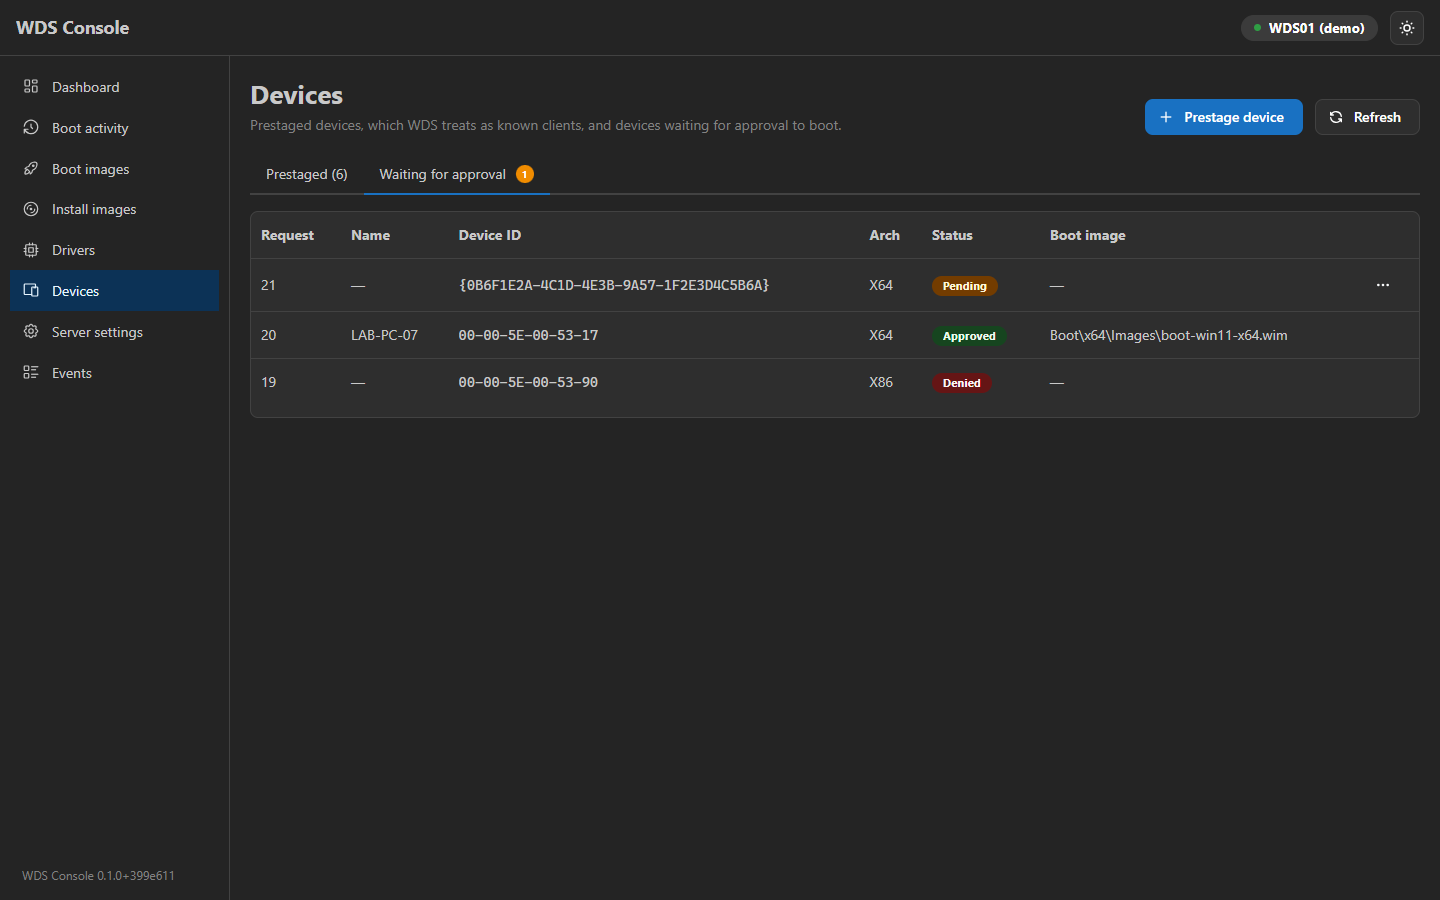
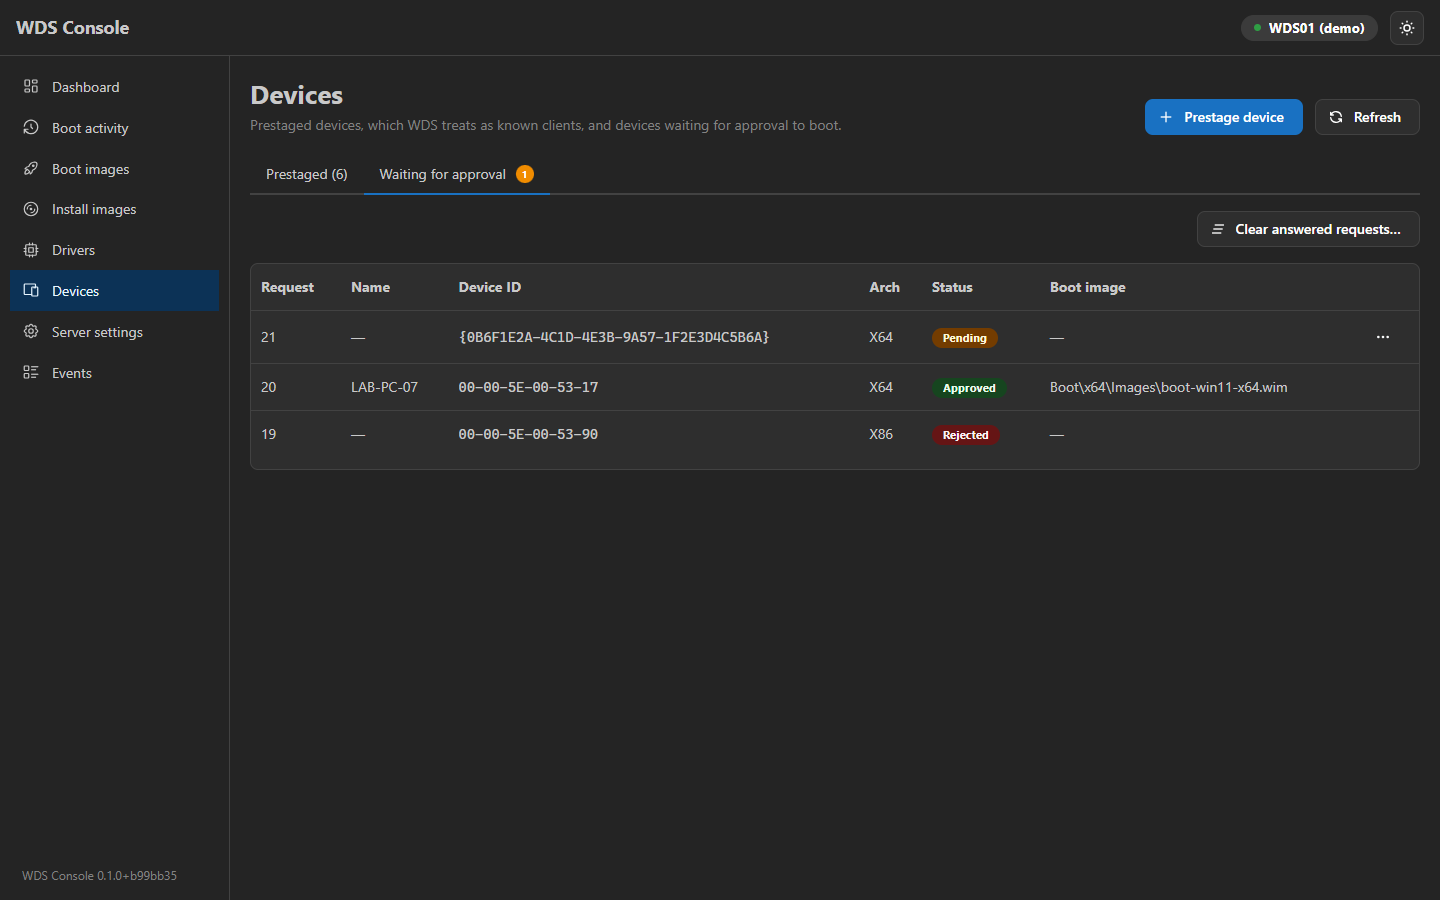
Quieten the harmless unattend refusal, and retake the screenshots
- When WDS has no unattend file to give a client, its refusal of Setup's
  request is a dimmed line under the boot's details rather than a box at
  the top, as it happens on every install.
- The README's screenshots show the new boot statuses and the demo's
  installs as WDS really logs them, and its feature list mentions how far
  each boot got, the domain join and clearing answered requests.

diff --git a/web/src/pages/ActivityPage.tsx b/web/src/pages/ActivityPage.tsx
@@ -233,22 +233,16 @@ function SessionDetail({ session, unattendExpected, standalone, onPrestage }: Se
           {bootStatus[session.status].description}
         </Text>
       </Group>
-      {session.notes
-        .filter((note) => note.kind === 'unattendBlocked')
-        .map((note) =>
-          unattendExpected ? (
+      {unattendExpected &&
+        session.notes
+          .filter((note) => note.kind === 'unattendBlocked')
+          .map((note) => (
             <Alert key={note.time} color="orange" icon={<IconAlertTriangle />} title="WDS refused the unattend request">
               At {formatDateTime(note.time)} Windows Setup asked for the WDS client unattend file, and WDS refused: hands-free
               deployment has been off since the April 2026 update (CVE-2026-0386). So the WDS client asked its questions
               (language, sign-in, which image) at the machine instead of taking the answers from the file.
             </Alert>
-          ) : (
-            <Alert key={note.time} color="gray" icon={<IconInfoCircle />}>
-              Windows Setup asked WDS for an unattend file, which WDS refuses since the April 2026 update (CVE-2026-0386). It
-              makes no difference here: WDS has no unattend file to give this client.
-            </Alert>
-          ),
-        )}
+          ))}
       {session.notes.some((note) => note.kind === 'notRecognized') && (
         <Alert color="orange" icon={<IconAlertTriangle />} title="WDS ignored this client">
           It isn't prestaged, and WDS answers only known clients. Prestage it below, or let WDS answer all clients under{' '}
@@ -281,6 +275,12 @@ function SessionDetail({ session, unattendExpected, standalone, onPrestage }: Se
           ))}
         </Table.Tbody>
       </Table>
+      {!unattendExpected && session.notes.some((note) => note.kind === 'unattendBlocked') && (
+        <Text size="xs" c="dimmed" mt="-sm">
+          Windows Setup asked WDS for an unattend file, which WDS refuses since the April 2026 update (CVE-2026-0386). That
+          makes no difference here: WDS has no unattend file to give this client.
+        </Text>
+      )}
 
       {session.deployment && <DeploymentDetail deployment={session.deployment} standalone={standalone} />}
 

diff --git a/README.md b/README.md
@@ -16,11 +16,13 @@ same network, and signs people in with their Windows accounts.
 
 - **Boot and install images**: import from an upload or from an ISO, WIM or ESD already on the server;
   enable, disable, rename, reorder and remove images; give install images an unattend file.
-- **Devices**: prestage devices by MAC address or SMBIOS GUID, each with its own boot image, PXE prompt
-  and WDS client unattend file; approve or reject devices waiting for approval.
-- **Boot activity**: every PXE boot and what it downloaded, and with WDS client logging on, the install
-  that followed: which image was chosen, by whom, how long the download and apply took, and any errors.
-  Prestage a device straight from one of its boots.
+- **Devices**: prestage devices by MAC address or SMBIOS GUID, each with its own boot image, PXE prompt,
+  WDS client unattend file and domain join; approve or reject devices waiting for approval, and clear
+  the answered requests WDS would otherwise keep acting on.
+- **Boot activity**: every PXE boot, how far it got (the network boot prompt, the boot menu, the boot
+  image download) and what it downloaded, and with WDS client logging on, the install that followed:
+  which image was chosen, by whom, how long the apply took, and any errors. Prestage a device straight
+  from one of its boots.
 - **Server settings**: PXE response, boot programs and default boot images, the WDS client, pending
   devices, network interfaces, TFTP and multicast, and the hands-free deployment override.
 - **Drivers** and **events**: the whole driver store, and WDS's event logs without the routine noise.
